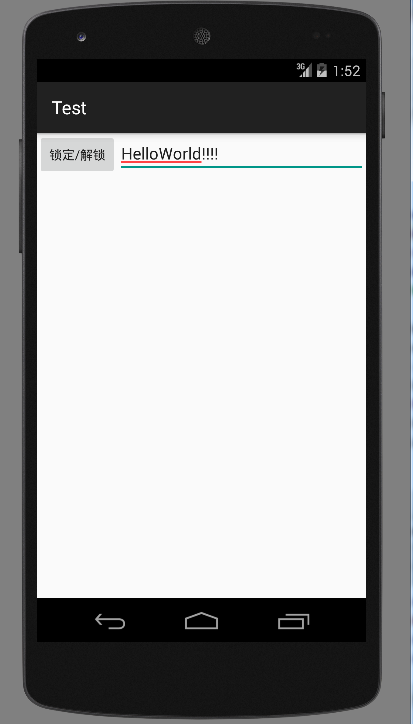
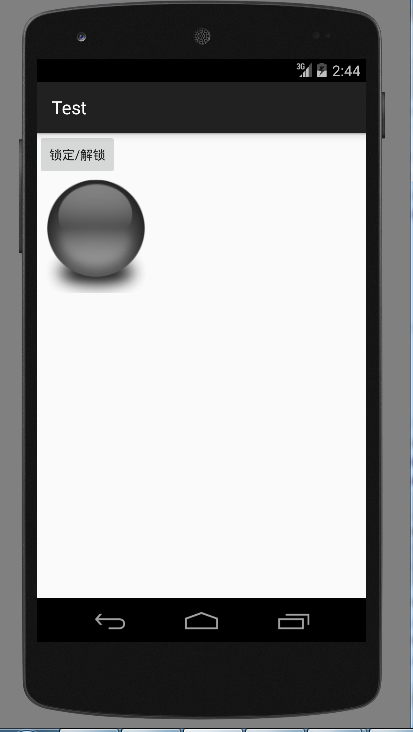
dev分支代码提交

diff --git a/Test/app/src/main/java/com/yaowen/test/MainActivity.java b/Test/app/src/main/java/com/yaowen/test/MainActivity.java
@@ -1,29 +1,24 @@
 package com.yaowen.test;
 
+import android.content.Intent;
 import android.os.Bundle;
 import android.support.v7.app.AppCompatActivity;
-import android.text.InputFilter;
-import android.text.Spanned;
 import android.view.View;
 import android.widget.Button;
-import android.widget.EditText;
 import android.widget.Toast;
 
 public class MainActivity extends AppCompatActivity implements View.OnClickListener {
-    private Button lockUnlock;
-    private EditText editText;
+    private Button lockUnlock,testButton;
     private boolean value = false;
     public String testText = "HelloWorld!!!!!!!!";
 
     @Override
     protected void onCreate(Bundle savedInstanceState) {
         super.onCreate(savedInstanceState);
-        setContentView(R.layout.activity_main);//加载布局文件
-        editText = (EditText) findViewById(R.id.editText);//初始化editText
-        editText.setText(testText);//设置editText内容为“HelloWorld！！！！”
-        lockUnlock = (Button) findViewById(R.id.lockUnlock);//初始化lockUnlock按钮
-        lockUnlock.setOnClickListener(this);//添加lockUnlock按钮的监听响应
-
+        setContentView(R.layout.activity_main);
+        testButton = (Button) findViewById(R.id.testButton);
+        lockUnlock = (Button) findViewById(R.id.lockUnlock);
+        lockUnlock.setOnClickListener(this);
     }
 
     @Override
@@ -33,18 +28,15 @@ public class MainActivity extends AppCompatActivity implements View.OnClickListe
                 if (value) {
                     value = false;
                     lockUnlock.setText("锁定");
-                    Toast.makeText(this, "editText已经被锁定，您不能修改其内容！",
-                            Toast.LENGTH_SHORT).show();
-                    //editText.setFocusable(false);
+                    Toast.makeText(this, "testButton已经成功激活，其监听功能正常！",
+                            Toast.LENGTH_LONG).show();
 
                 } else {
                     value = true;
                     lockUnlock.setText("解锁");
-                    Toast.makeText(this, "editText已经成功解锁，您可以修改其内容！",
-                            Toast.LENGTH_SHORT).show();
-                    //editText.setFocusable(true);
+                    Toast.makeText(this, "testButton已经被锁定，该按钮监听功能失效！",
+                            Toast.LENGTH_LONG).show();
                 }
-                //创建构造方法lockUnlock方法，传入一个value的参数；
                 lockUnlock(value);
                 break;
             default:
@@ -54,28 +46,16 @@ public class MainActivity extends AppCompatActivity implements View.OnClickListe
 
     private void lockUnlock(boolean value) {
         if (value) {
-
-            //这里实现了EditText的锁定
-            editText.setFilters(new InputFilter[]{
-                    new InputFilter() {
-                        @Override
-                        public CharSequence filter(CharSequence source, int start, int end, Spanned dest, int dstart, int dend) {
-                            //这里实现了EditText的锁定，无法修改其内容；
-                            return source.length() < 1 ? dest.subSequence(dstart, dend) : "";
-                        }
-                    }
-            });
-            //editText.clearFocus();
-            //editText.setInputType(InputType.TYPE_NULL);//EditText始终不弹出软件键盘
+            testButton.setBackgroundResource(R.drawable.lock);
         } else {
-            editText.setFilters(new InputFilter[]{
-                    new InputFilter() {
-                        @Override
-                        public CharSequence filter(CharSequence source, int start, int end, Spanned dest, int dstart, int dend) {
-                            //这里实现了EditText的解除锁定，可以修改其内容；
-                            return null;
-                        }
-                    }
+            testButton.setBackgroundResource(R.drawable.unlock);
+            testButton.setOnClickListener(new View.OnClickListener() {
+                @Override
+                public void onClick(View v) {
+                    Intent intent =new Intent(MainActivity.this,TestActivity.class);
+                    startActivity(intent);
+                    finish();
+                }
             });
         }
     }

diff --git a/Test/app/src/main/java/com/yaowen/test/TestActivity.java b/Test/app/src/main/java/com/yaowen/test/TestActivity.java
@@ -1,45 +1,28 @@
 package com.yaowen.test;
 
 import android.app.Activity;
+import android.content.Intent;
 import android.os.Bundle;
-import android.text.InputType;
 import android.view.View;
 import android.widget.Button;
-import android.widget.EditText;
 
-public class TestActivity extends Activity implements View.OnClickListener {
-    private EditText editText;
-
+/**
+ * Created by HelloWorld on 2015/9/19.
+ */
+public class TestActivity extends Activity{
+    private Button back;
     @Override
     protected void onCreate(Bundle savedInstanceState) {
         super.onCreate(savedInstanceState);
-        setContentView(R.layout.activity_test);
-        editText= (EditText) findViewById(R.id.editText_test);
-        editText.setText("HelloWorld!!!!");
-        //editText.clearFocus();
-        Button btn1= (Button) this.findViewById(R.id.btn1);
-        Button btn2= (Button) this.findViewById(R.id.btn2);
-        //editText.setInputType(InputType.TYPE_NULL);
-     //editText.setInputType(InputType.TYPE_CLASS_TEXT);
-        btn1.setOnClickListener(this);
-        btn2.setOnClickListener(this);
-    }
-
-    @Override
-    public void onClick(View v) {
-        switch (v.getId()){
-            case R.id.btn1:{
-                editText.setInputType(InputType.TYPE_CLASS_TEXT);
-                break;}
-            case R.id.btn2:{
-
-                editText.setInputType(InputType.TYPE_NULL);
-                editText.setFocusable(true);
-                editText.setCursorVisible(true);
-                editText.setFocusableInTouchMode(true);
-                break;}
-            default:
-                break;
-        }
+        setContentView(R.layout.test);
+        back= (Button) findViewById(R.id.back);
+        back.setOnClickListener(new View.OnClickListener() {
+            @Override
+            public void onClick(View v) {
+                Intent intent=new Intent(TestActivity.this,MainActivity.class);
+                startActivity(intent);
+                finish();
+            }
+        });
     }
 }
